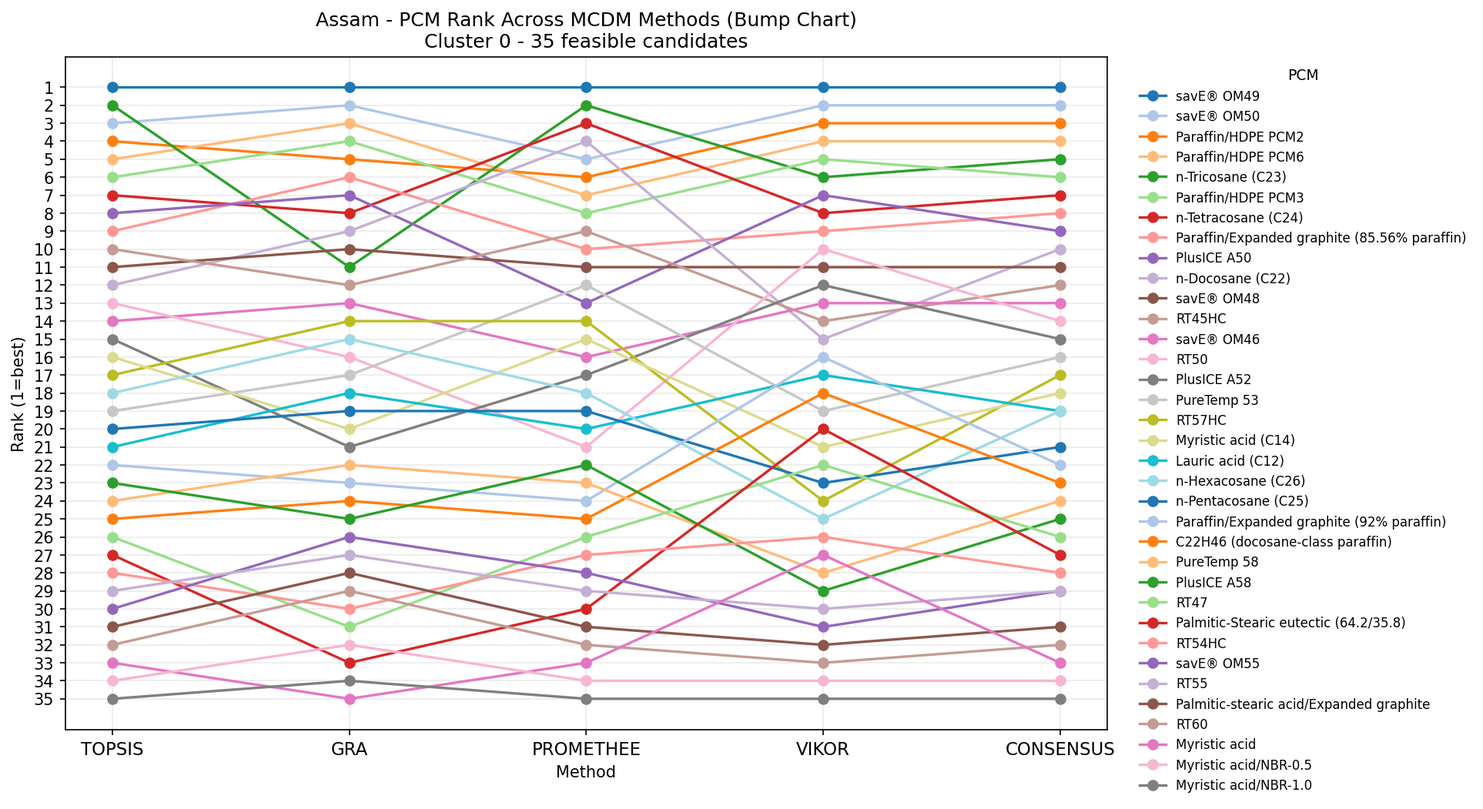
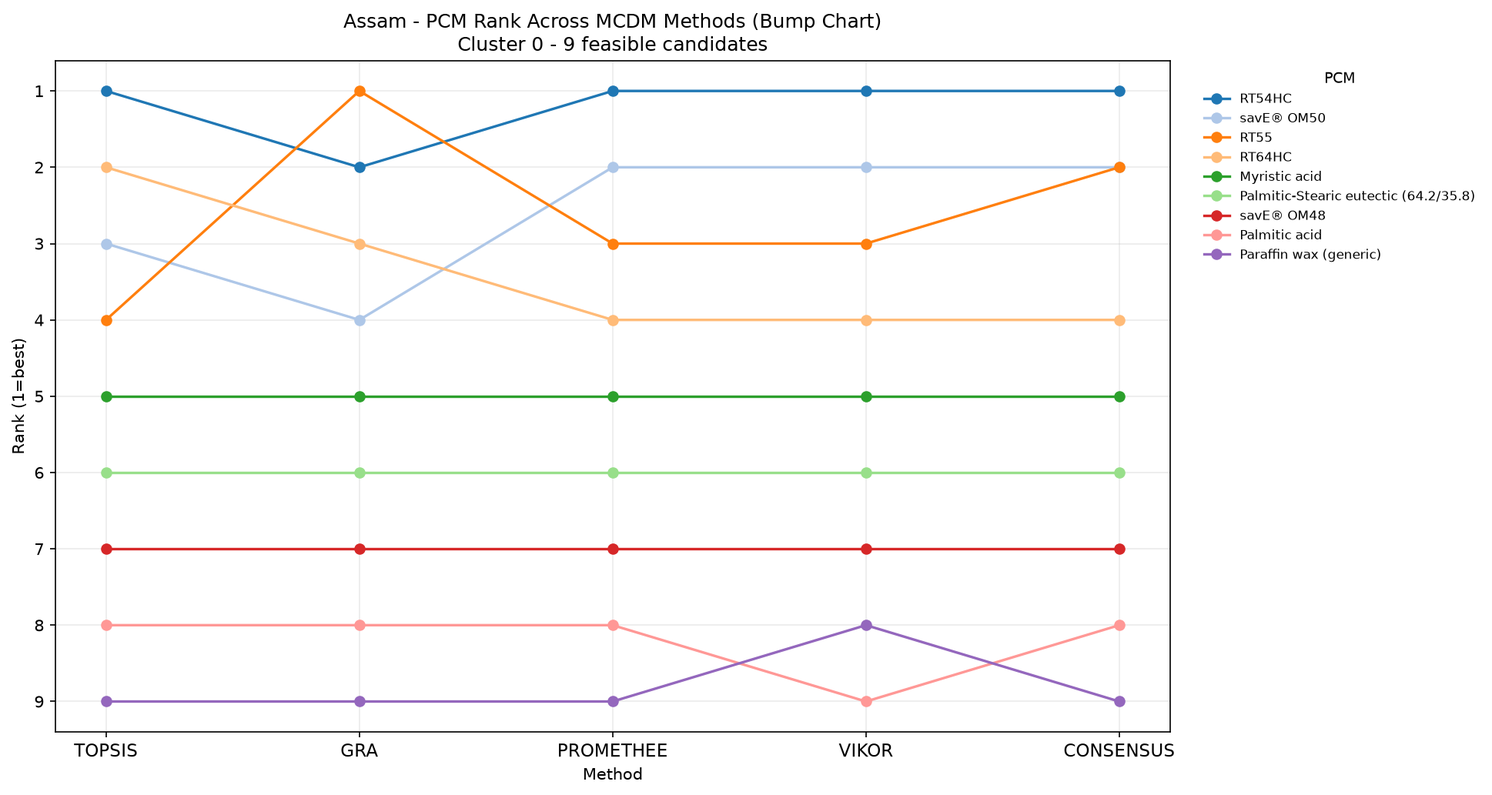
chore(plots): update Assam Cluster 0 MCDM bump chart from latest run

Changed region(s): [[0.0, 0.0, 0.9969, 0.9913]]

diff --git a/public/plots/assam/07_bump_chart_ranks_cluster_0.html b/public/plots/assam/07_bump_chart_ranks_cluster_0.html
@@ -6,6 +6,6 @@
 </head>
 <body>
     <div style="height:550px; width:100%;">                        <script>window.PlotlyConfig = {MathJaxConfig: 'local'};</script>
-        <script charset="utf-8" src="https://cdn.plot.ly/plotly-4.1.1.min.js" integrity="sha256-O24V1F27f8pb0glCkelh3cVHLNiHAJ5gCaVtq2aNch8=" crossorigin="anonymous"></script>                <div id="3c9d2331-f785-4d30-8041-53f6bf777013" class="plotly-graph-div" style="height:100%; width:100%;"></div>            <script>                window.PLOTLYENV=window.PLOTLYENV || {};                                if (document.getElementById("3c9d2331-f785-4d30-8041-53f6bf777013")) {                    Plotly.newPlot(                        "3c9d2331-f785-4d30-8041-53f6bf777013",                        [{"hovertemplate":"Name=savE® OM49\u003cbr\u003eMethod=%{x}\u003cbr\u003eRank=%{y}\u003cextra\u003e\u003c\u002fextra\u003e","legendgroup":"savE® OM49","line":{"color":"#FD3216","dash":"solid"},"marker":{"symbol":"circle"},"mode":"lines+markers","name":"savE® OM49","orientation":"v","showlegend":true,"x":["TOPSIS","GRA","PROMETHEE","VIKOR","CONSENSUS"],"xaxis":"x","y":{"dtype":"i1","bdata":"AQEBAQE="},"yaxis":"y","type":"scatter"},{"hovertemplate":"Name=savE® OM50\u003cbr\u003eMethod=%{x}\u003cbr\u003eRank=%{y}\u003cextra\u003e\u003c\u002fextra\u003e","legendgroup":"savE® OM50","line":{"color":"#00FE35","dash":"solid"},"marker":{"symbol":"circle"},"mode":"lines+markers","name":"savE® OM50","orientation":"v","showlegend":true,"x":["TOPSIS","GRA","PROMETHEE","VIKOR","CONSENSUS"],"xaxis":"x","y":{"dtype":"i1","bdata":"AwIFAgI="},"yaxis":"y","type":"scatter"},{"hovertemplate":"Name=Paraffin\u002fHDPE PCM2\u003cbr\u003eMethod=%{x}\u003cbr\u003eRank=%{y}\u003cextra\u003e\u003c\u002fextra\u003e","legendgroup":"Paraffin\u002fHDPE PCM2","line":{"color":"#6A76FC","dash":"solid"},"marker":{"symbol":"circle"},"mode":"lines+markers","name":"Paraffin\u002fHDPE PCM2","orientation":"v","showlegend":true,"x":["TOPSIS","GRA","PROMETHEE","VIKOR","CONSENSUS"],"xaxis":"x","y":{"dtype":"i1","bdata":"BAUGAwM="},"yaxis":"y","type":"scatter"},{"hovertemplate":"Name=Paraffin\u002fHDPE PCM6\u003cbr\u003eMethod=%{x}\u003cbr\u003eRank=%{y}\u003cextra\u003e\u003c\u002fextra\u003e","legendgroup":"Paraffin\u002fHDPE PCM6","line":{"color":"#FED4C4","dash":"solid"},"marker":{"symbol":"circle"},"mode":"lines+markers","name":"Paraffin\u002fHDPE PCM6","orientation":"v","showlegend":true,"x":["TOPSIS","GRA","PROMETHEE","VIKOR","CONSENSUS"],"xaxis":"x","y":{"dtype":"i1","bdata":"BQMHBAQ="},"yaxis":"y","type":"scatter"},{"hovertemplate":"Name=n-Tricosane (C23)\u003cbr\u003eMethod=%{x}\u003cbr\u003eRank=%{y}\u003cextra\u003e\u003c\u002fextra\u003e","legendgroup":"n-Tricosane (C23)","line":{"color":"#FE00CE","dash":"solid"},"marker":{"symbol":"circle"},"mode":"lines+markers","name":"n-Tricosane (C23)","orientation":"v","showlegend":true,"x":["TOPSIS","GRA","PROMETHEE","VIKOR","CONSENSUS"],"xaxis":"x","y":{"dtype":"i1","bdata":"AgsCBgU="},"yaxis":"y","type":"scatter"},{"hovertemplate":"Name=Paraffin\u002fHDPE PCM3\u003cbr\u003eMethod=%{x}\u003cbr\u003eRank=%{y}\u003cextra\u003e\u003c\u002fextra\u003e","legendgroup":"Paraffin\u002fHDPE PCM3","line":{"color":"#0DF9FF","dash":"solid"},"marker":{"symbol":"circle"},"mode":"lines+markers","name":"Paraffin\u002fHDPE PCM3","orientation":"v","showlegend":true,"x":["TOPSIS","GRA","PROMETHEE","VIKOR","CONSENSUS"],"xaxis":"x","y":{"dtype":"i1","bdata":"BgQIBQY="},"yaxis":"y","type":"scatter"},{"hovertemplate":"Name=n-Tetracosane (C24)\u003cbr\u003eMethod=%{x}\u003cbr\u003eRank=%{y}\u003cextra\u003e\u003c\u002fextra\u003e","legendgroup":"n-Tetracosane (C24)","line":{"color":"#F6F926","dash":"solid"},"marker":{"symbol":"circle"},"mode":"lines+markers","name":"n-Tetracosane (C24)","orientation":"v","showlegend":true,"x":["TOPSIS","GRA","PROMETHEE","VIKOR","CONSENSUS"],"xaxis":"x","y":{"dtype":"i1","bdata":"BwgDCAc="},"yaxis":"y","type":"scatter"},{"hovertemplate":"Name=Paraffin\u002fExpanded graphite (85.56% paraffin)\u003cbr\u003eMethod=%{x}\u003cbr\u003eRank=%{y}\u003cextra\u003e\u003c\u002fextra\u003e","legendgroup":"Paraffin\u002fExpanded graphite (85.56% paraffin)","line":{"color":"#FF9616","dash":"solid"},"marker":{"symbol":"circle"},"mode":"lines+markers","name":"Paraffin\u002fExpanded graphite (85.56% paraffin)","orientation":"v","showlegend":true,"x":["TOPSIS","GRA","PROMETHEE","VIKOR","CONSENSUS"],"xaxis":"x","y":{"dtype":"i1","bdata":"CQYKCQg="},"yaxis":"y","type":"scatter"},{"hovertemplate":"Name=PlusICE A50\u003cbr\u003eMethod=%{x}\u003cbr\u003eRank=%{y}\u003cextra\u003e\u003c\u002fextra\u003e","legendgroup":"PlusICE A50","line":{"color":"#479B55","dash":"solid"},"marker":{"symbol":"circle"},"mode":"lines+markers","name":"PlusICE A50","orientation":"v","showlegend":true,"x":["TOPSIS","GRA","PROMETHEE","VIKOR","CONSENSUS"],"xaxis":"x","y":{"dtype":"i1","bdata":"CAcNBwk="},"yaxis":"y","type":"scatter"},{"hovertemplate":"Name=n-Docosane (C22)\u003cbr\u003eMethod=%{x}\u003cbr\u003eRank=%{y}\u003cextra\u003e\u003c\u002fextra\u003e","legendgroup":"n-Docosane (C22)","line":{"color":"#EEA6FB","dash":"solid"},"marker":{"symbol":"circle"},"mode":"lines+markers","name":"n-Docosane (C22)","orientation":"v","showlegend":true,"x":["TOPSIS","GRA","PROMETHEE","VIKOR","CONSENSUS"],"xaxis":"x","y":{"dtype":"i1","bdata":"DAkEDwo="},"yaxis":"y","type":"scatter"},{"hovertemplate":"Name=savE® OM48\u003cbr\u003eMethod=%{x}\u003cbr\u003eRank=%{y}\u003cextra\u003e\u003c\u002fextra\u003e","legendgroup":"savE® OM48","line":{"color":"#DC587D","dash":"solid"},"marker":{"symbol":"circle"},"mode":"lines+markers","name":"savE® OM48","orientation":"v","showlegend":true,"x":["TOPSIS","GRA","PROMETHEE","VIKOR","CONSENSUS"],"xaxis":"x","y":{"dtype":"i1","bdata":"CwoLCws="},"yaxis":"y","type":"scatter"},{"hovertemplate":"Name=RT45HC\u003cbr\u003eMethod=%{x}\u003cbr\u003eRank=%{y}\u003cextra\u003e\u003c\u002fextra\u003e","legendgroup":"RT45HC","line":{"color":"#D626FF","dash":"solid"},"marker":{"symbol":"circle"},"mode":"lines+markers","name":"RT45HC","orientation":"v","showlegend":true,"x":["TOPSIS","GRA","PROMETHEE","VIKOR","CONSENSUS"],"xaxis":"x","y":{"dtype":"i1","bdata":"CgwJDgw="},"yaxis":"y","type":"scatter"},{"hovertemplate":"Name=savE® OM46\u003cbr\u003eMethod=%{x}\u003cbr\u003eRank=%{y}\u003cextra\u003e\u003c\u002fextra\u003e","legendgroup":"savE® OM46","line":{"color":"#6E899C","dash":"solid"},"marker":{"symbol":"circle"},"mode":"lines+markers","name":"savE® OM46","orientation":"v","showlegend":true,"x":["TOPSIS","GRA","PROMETHEE","VIKOR","CONSENSUS"],"xaxis":"x","y":{"dtype":"i1","bdata":"Dg0QDQ0="},"yaxis":"y","type":"scatter"},{"hovertemplate":"Name=RT50\u003cbr\u003eMethod=%{x}\u003cbr\u003eRank=%{y}\u003cextra\u003e\u003c\u002fextra\u003e","legendgroup":"RT50","line":{"color":"#00B5F7","dash":"solid"},"marker":{"symbol":"circle"},"mode":"lines+markers","name":"RT50","orientation":"v","showlegend":true,"x":["TOPSIS","GRA","PROMETHEE","VIKOR","CONSENSUS"],"xaxis":"x","y":{"dtype":"i1","bdata":"DRAVCg4="},"yaxis":"y","type":"scatter"},{"hovertemplate":"Name=PlusICE A52\u003cbr\u003eMethod=%{x}\u003cbr\u003eRank=%{y}\u003cextra\u003e\u003c\u002fextra\u003e","legendgroup":"PlusICE A52","line":{"color":"#B68E00","dash":"solid"},"marker":{"symbol":"circle"},"mode":"lines+markers","name":"PlusICE A52","orientation":"v","showlegend":true,"x":["TOPSIS","GRA","PROMETHEE","VIKOR","CONSENSUS"],"xaxis":"x","y":{"dtype":"i1","bdata":"DxURDA8="},"yaxis":"y","type":"scatter"},{"hovertemplate":"Name=PureTemp 53\u003cbr\u003eMethod=%{x}\u003cbr\u003eRank=%{y}\u003cextra\u003e\u003c\u002fextra\u003e","legendgroup":"PureTemp 53","line":{"color":"#C9FBE5","dash":"solid"},"marker":{"symbol":"circle"},"mode":"lines+markers","name":"PureTemp 53","orientation":"v","showlegend":true,"x":["TOPSIS","GRA","PROMETHEE","VIKOR","CONSENSUS"],"xaxis":"x","y":{"dtype":"i1","bdata":"ExEMExA="},"yaxis":"y","type":"scatter"},{"hovertemplate":"Name=RT57HC\u003cbr\u003eMethod=%{x}\u003cbr\u003eRank=%{y}\u003cextra\u003e\u003c\u002fextra\u003e","legendgroup":"RT57HC","line":{"color":"#FF0092","dash":"solid"},"marker":{"symbol":"circle"},"mode":"lines+markers","name":"RT57HC","orientation":"v","showlegend":true,"x":["TOPSIS","GRA","PROMETHEE","VIKOR","CONSENSUS"],"xaxis":"x","y":{"dtype":"i1","bdata":"EQ4OGBE="},"yaxis":"y","type":"scatter"},{"hovertemplate":"Name=Myristic acid (C14)\u003cbr\u003eMethod=%{x}\u003cbr\u003eRank=%{y}\u003cextra\u003e\u003c\u002fextra\u003e","legendgroup":"Myristic acid (C14)","line":{"color":"#22FFA7","dash":"solid"},"marker":{"symbol":"circle"},"mode":"lines+markers","name":"Myristic acid (C14)","orientation":"v","showlegend":true,"x":["TOPSIS","GRA","PROMETHEE","VIKOR","CONSENSUS"],"xaxis":"x","y":{"dtype":"i1","bdata":"EBQPFRI="},"yaxis":"y","type":"scatter"},{"hovertemplate":"Name=Lauric acid (C12)\u003cbr\u003eMethod=%{x}\u003cbr\u003eRank=%{y}\u003cextra\u003e\u003c\u002fextra\u003e","legendgroup":"Lauric acid (C12)","line":{"color":"#E3EE9E","dash":"solid"},"marker":{"symbol":"circle"},"mode":"lines+markers","name":"Lauric acid (C12)","orientation":"v","showlegend":true,"x":["TOPSIS","GRA","PROMETHEE","VIKOR","CONSENSUS"],"xaxis":"x","y":{"dtype":"i1","bdata":"FRIUERM="},"yaxis":"y","type":"scatter"},{"hovertemplate":"Name=n-Hexacosane (C26)\u003cbr\u003eMethod=%{x}\u003cbr\u003eRank=%{y}\u003cextra\u003e\u003c\u002fextra\u003e","legendgroup":"n-Hexacosane (C26)","line":{"color":"#86CE00","dash":"solid"},"marker":{"symbol":"circle"},"mode":"lines+markers","name":"n-Hexacosane (C26)","orientation":"v","showlegend":true,"x":["TOPSIS","GRA","PROMETHEE","VIKOR","CONSENSUS"],"xaxis":"x","y":{"dtype":"i1","bdata":"Eg8SGRM="},"yaxis":"y","type":"scatter"},{"hovertemplate":"Name=n-Pentacosane (C25)\u003cbr\u003eMethod=%{x}\u003cbr\u003eRank=%{y}\u003cextra\u003e\u003c\u002fextra\u003e","legendgroup":"n-Pentacosane (C25)","line":{"color":"#BC7196","dash":"solid"},"marker":{"symbol":"circle"},"mode":"lines+markers","name":"n-Pentacosane (C25)","orientation":"v","showlegend":true,"x":["TOPSIS","GRA","PROMETHEE","VIKOR","CONSENSUS"],"xaxis":"x","y":{"dtype":"i1","bdata":"FBMTFxU="},"yaxis":"y","type":"scatter"},{"hovertemplate":"Name=Paraffin\u002fExpanded graphite (92% paraffin)\u003cbr\u003eMethod=%{x}\u003cbr\u003eRank=%{y}\u003cextra\u003e\u003c\u002fextra\u003e","legendgroup":"Paraffin\u002fExpanded graphite (92% paraffin)","line":{"color":"#7E7DCD","dash":"solid"},"marker":{"symbol":"circle"},"mode":"lines+markers","name":"Paraffin\u002fExpanded graphite (92% paraffin)","orientation":"v","showlegend":true,"x":["TOPSIS","GRA","PROMETHEE","VIKOR","CONSENSUS"],"xaxis":"x","y":{"dtype":"i1","bdata":"FhcYEBY="},"yaxis":"y","type":"scatter"},{"hovertemplate":"Name=C22H46 (docosane-class paraffin)\u003cbr\u003eMethod=%{x}\u003cbr\u003eRank=%{y}\u003cextra\u003e\u003c\u002fextra\u003e","legendgroup":"C22H46 (docosane-class paraffin)","line":{"color":"#FC6955","dash":"solid"},"marker":{"symbol":"circle"},"mode":"lines+markers","name":"C22H46 (docosane-class paraffin)","orientation":"v","showlegend":true,"x":["TOPSIS","GRA","PROMETHEE","VIKOR","CONSENSUS"],"xaxis":"x","y":{"dtype":"i1","bdata":"GRgZEhc="},"yaxis":"y","type":"scatter"},{"hovertemplate":"Name=PureTemp 58\u003cbr\u003eMethod=%{x}\u003cbr\u003eRank=%{y}\u003cextra\u003e\u003c\u002fextra\u003e","legendgroup":"PureTemp 58","line":{"color":"#E48F72","dash":"solid"},"marker":{"symbol":"circle"},"mode":"lines+markers","name":"PureTemp 58","orientation":"v","showlegend":true,"x":["TOPSIS","GRA","PROMETHEE","VIKOR","CONSENSUS"],"xaxis":"x","y":{"dtype":"i1","bdata":"GBYXHBg="},"yaxis":"y","type":"scatter"},{"hovertemplate":"Name=PlusICE A58\u003cbr\u003eMethod=%{x}\u003cbr\u003eRank=%{y}\u003cextra\u003e\u003c\u002fextra\u003e","legendgroup":"PlusICE A58","line":{"color":"#FD3216","dash":"solid"},"marker":{"symbol":"circle"},"mode":"lines+markers","name":"PlusICE A58","orientation":"v","showlegend":true,"x":["TOPSIS","GRA","PROMETHEE","VIKOR","CONSENSUS"],"xaxis":"x","y":{"dtype":"i1","bdata":"FxkWHRk="},"yaxis":"y","type":"scatter"},{"hovertemplate":"Name=RT47\u003cbr\u003eMethod=%{x}\u003cbr\u003eRank=%{y}\u003cextra\u003e\u003c\u002fextra\u003e","legendgroup":"RT47","line":{"color":"#00FE35","dash":"solid"},"marker":{"symbol":"circle"},"mode":"lines+markers","name":"RT47","orientation":"v","showlegend":true,"x":["TOPSIS","GRA","PROMETHEE","VIKOR","CONSENSUS"],"xaxis":"x","y":{"dtype":"i1","bdata":"Gh8aFho="},"yaxis":"y","type":"scatter"},{"hovertemplate":"Name=Palmitic-Stearic eutectic (64.2\u002f35.8)\u003cbr\u003eMethod=%{x}\u003cbr\u003eRank=%{y}\u003cextra\u003e\u003c\u002fextra\u003e","legendgroup":"Palmitic-Stearic eutectic (64.2\u002f35.8)","line":{"color":"#6A76FC","dash":"solid"},"marker":{"symbol":"circle"},"mode":"lines+markers","name":"Palmitic-Stearic eutectic (64.2\u002f35.8)","orientation":"v","showlegend":true,"x":["TOPSIS","GRA","PROMETHEE","VIKOR","CONSENSUS"],"xaxis":"x","y":{"dtype":"i1","bdata":"GyEeFBs="},"yaxis":"y","type":"scatter"},{"hovertemplate":"Name=RT54HC\u003cbr\u003eMethod=%{x}\u003cbr\u003eRank=%{y}\u003cextra\u003e\u003c\u002fextra\u003e","legendgroup":"RT54HC","line":{"color":"#FED4C4","dash":"solid"},"marker":{"symbol":"circle"},"mode":"lines+markers","name":"RT54HC","orientation":"v","showlegend":true,"x":["TOPSIS","GRA","PROMETHEE","VIKOR","CONSENSUS"],"xaxis":"x","y":{"dtype":"i1","bdata":"HB4bGhw="},"yaxis":"y","type":"scatter"},{"hovertemplate":"Name=savE® OM55\u003cbr\u003eMethod=%{x}\u003cbr\u003eRank=%{y}\u003cextra\u003e\u003c\u002fextra\u003e","legendgroup":"savE® OM55","line":{"color":"#FE00CE","dash":"solid"},"marker":{"symbol":"circle"},"mode":"lines+markers","name":"savE® OM55","orientation":"v","showlegend":true,"x":["TOPSIS","GRA","PROMETHEE","VIKOR","CONSENSUS"],"xaxis":"x","y":{"dtype":"i1","bdata":"HhocHx0="},"yaxis":"y","type":"scatter"},{"hovertemplate":"Name=RT55\u003cbr\u003eMethod=%{x}\u003cbr\u003eRank=%{y}\u003cextra\u003e\u003c\u002fextra\u003e","legendgroup":"RT55","line":{"color":"#0DF9FF","dash":"solid"},"marker":{"symbol":"circle"},"mode":"lines+markers","name":"RT55","orientation":"v","showlegend":true,"x":["TOPSIS","GRA","PROMETHEE","VIKOR","CONSENSUS"],"xaxis":"x","y":{"dtype":"i1","bdata":"HRsdHh0="},"yaxis":"y","type":"scatter"},{"hovertemplate":"Name=Palmitic-stearic acid\u002fExpanded graphite\u003cbr\u003eMethod=%{x}\u003cbr\u003eRank=%{y}\u003cextra\u003e\u003c\u002fextra\u003e","legendgroup":"Palmitic-stearic acid\u002fExpanded graphite","line":{"color":"#F6F926","dash":"solid"},"marker":{"symbol":"circle"},"mode":"lines+markers","name":"Palmitic-stearic acid\u002fExpanded graphite","orientation":"v","showlegend":true,"x":["TOPSIS","GRA","PROMETHEE","VIKOR","CONSENSUS"],"xaxis":"x","y":{"dtype":"i1","bdata":"HxwfIB8="},"yaxis":"y","type":"scatter"},{"hovertemplate":"Name=RT60\u003cbr\u003eMethod=%{x}\u003cbr\u003eRank=%{y}\u003cextra\u003e\u003c\u002fextra\u003e","legendgroup":"RT60","line":{"color":"#FF9616","dash":"solid"},"marker":{"symbol":"circle"},"mode":"lines+markers","name":"RT60","orientation":"v","showlegend":true,"x":["TOPSIS","GRA","PROMETHEE","VIKOR","CONSENSUS"],"xaxis":"x","y":{"dtype":"i1","bdata":"IB0gISA="},"yaxis":"y","type":"scatter"},{"hovertemplate":"Name=Myristic acid\u003cbr\u003eMethod=%{x}\u003cbr\u003eRank=%{y}\u003cextra\u003e\u003c\u002fextra\u003e","legendgroup":"Myristic acid","line":{"color":"#479B55","dash":"solid"},"marker":{"symbol":"circle"},"mode":"lines+markers","name":"Myristic acid","orientation":"v","showlegend":true,"x":["TOPSIS","GRA","PROMETHEE","VIKOR","CONSENSUS"],"xaxis":"x","y":{"dtype":"i1","bdata":"ISMhGyE="},"yaxis":"y","type":"scatter"},{"hovertemplate":"Name=Myristic acid\u002fNBR-0.5\u003cbr\u003eMethod=%{x}\u003cbr\u003eRank=%{y}\u003cextra\u003e\u003c\u002fextra\u003e","legendgroup":"Myristic acid\u002fNBR-0.5","line":{"color":"#EEA6FB","dash":"solid"},"marker":{"symbol":"circle"},"mode":"lines+markers","name":"Myristic acid\u002fNBR-0.5","orientation":"v","showlegend":true,"x":["TOPSIS","GRA","PROMETHEE","VIKOR","CONSENSUS"],"xaxis":"x","y":{"dtype":"i1","bdata":"IiAiIiI="},"yaxis":"y","type":"scatter"},{"hovertemplate":"Name=Myristic acid\u002fNBR-1.0\u003cbr\u003eMethod=%{x}\u003cbr\u003eRank=%{y}\u003cextra\u003e\u003c\u002fextra\u003e","legendgroup":"Myristic acid\u002fNBR-1.0","line":{"color":"#DC587D","dash":"solid"},"marker":{"symbol":"circle"},"mode":"lines+markers","name":"Myristic acid\u002fNBR-1.0","orientation":"v","showlegend":true,"x":["TOPSIS","GRA","PROMETHEE","VIKOR","CONSENSUS"],"xaxis":"x","y":{"dtype":"i1","bdata":"IyIjIyM="},"yaxis":"y","type":"scatter"}],                        {"template":{"data":{"barpolar":[{"marker":{"line":{"color":"white","width":0.5},"pattern":{"fillmode":"overlay","size":10,"solidity":0.2}},"type":"barpolar"}],"bar":[{"error_x":{"color":"#2a3f5f"},"error_y":{"color":"#2a3f5f"},"marker":{"line":{"color":"white","width":0.5},"pattern":{"fillmode":"overlay","size":10,"solidity":0.2}},"type":"bar"}],"carpet":[{"aaxis":{"endlinecolor":"#2a3f5f","gridcolor":"#C8D4E3","linecolor":"#C8D4E3","minorgridcolor":"#C8D4E3","startlinecolor":"#2a3f5f"},"baxis":{"endlinecolor":"#2a3f5f","gridcolor":"#C8D4E3","linecolor":"#C8D4E3","minorgridcolor":"#C8D4E3","startlinecolor":"#2a3f5f"},"type":"carpet"}],"choropleth":[{"colorbar":{"outlinewidth":0,"ticks":""},"type":"choropleth"}],"contourcarpet":[{"colorbar":{"outlinewidth":0,"ticks":""},"type":"contourcarpet"}],"contour":[{"colorbar":{"outlinewidth":0,"ticks":""},"colorscale":[[0.0,"#0d0887"],[0.1111111111111111,"#46039f"],[0.2222222222222222,"#7201a8"],[0.3333333333333333,"#9c179e"],[0.4444444444444444,"#bd3786"],[0.5555555555555556,"#d8576b"],[0.6666666666666666,"#ed7953"],[0.7777777777777778,"#fb9f3a"],[0.8888888888888888,"#fdca26"],[1.0,"#f0f921"]],"type":"contour"}],"heatmap":[{"colorbar":{"outlinewidth":0,"ticks":""},"colorscale":[[0.0,"#0d0887"],[0.1111111111111111,"#46039f"],[0.2222222222222222,"#7201a8"],[0.3333333333333333,"#9c179e"],[0.4444444444444444,"#bd3786"],[0.5555555555555556,"#d8576b"],[0.6666666666666666,"#ed7953"],[0.7777777777777778,"#fb9f3a"],[0.8888888888888888,"#fdca26"],[1.0,"#f0f921"]],"type":"heatmap"}],"histogram2dcontour":[{"colorbar":{"outlinewidth":0,"ticks":""},"colorscale":[[0.0,"#0d0887"],[0.1111111111111111,"#46039f"],[0.2222222222222222,"#7201a8"],[0.3333333333333333,"#9c179e"],[0.4444444444444444,"#bd3786"],[0.5555555555555556,"#d8576b"],[0.6666666666666666,"#ed7953"],[0.7777777777777778,"#fb9f3a"],[0.8888888888888888,"#fdca26"],[1.0,"#f0f921"]],"type":"histogram2dcontour"}],"histogram2d":[{"colorbar":{"outlinewidth":0,"ticks":""},"colorscale":[[0.0,"#0d0887"],[0.1111111111111111,"#46039f"],[0.2222222222222222,"#7201a8"],[0.3333333333333333,"#9c179e"],[0.4444444444444444,"#bd3786"],[0.5555555555555556,"#d8576b"],[0.6666666666666666,"#ed7953"],[0.7777777777777778,"#fb9f3a"],[0.8888888888888888,"#fdca26"],[1.0,"#f0f921"]],"type":"histogram2d"}],"histogram":[{"marker":{"pattern":{"fillmode":"overlay","size":10,"solidity":0.2}},"type":"histogram"}],"mesh3d":[{"colorbar":{"outlinewidth":0,"ticks":""},"type":"mesh3d"}],"parcoords":[{"line":{"colorbar":{"outlinewidth":0,"ticks":""}},"type":"parcoords"}],"pie":[{"automargin":true,"type":"pie"}],"scatter3d":[{"line":{"colorbar":{"outlinewidth":0,"ticks":""}},"marker":{"colorbar":{"outlinewidth":0,"ticks":""}},"type":"scatter3d"}],"scattercarpet":[{"marker":{"colorbar":{"outlinewidth":0,"ticks":""}},"type":"scattercarpet"}],"scattergeo":[{"marker":{"colorbar":{"outlinewidth":0,"ticks":""}},"type":"scattergeo"}],"scattergl":[{"marker":{"colorbar":{"outlinewidth":0,"ticks":""}},"type":"scattergl"}],"scattermap":[{"marker":{"colorbar":{"outlinewidth":0,"ticks":""}},"type":"scattermap"}],"scatterpolargl":[{"marker":{"colorbar":{"outlinewidth":0,"ticks":""}},"type":"scatterpolargl"}],"scatterpolar":[{"marker":{"colorbar":{"outlinewidth":0,"ticks":""}},"type":"scatterpolar"}],"scatter":[{"fillpattern":{"fillmode":"overlay","size":10,"solidity":0.2},"type":"scatter"}],"scatterternary":[{"marker":{"colorbar":{"outlinewidth":0,"ticks":""}},"type":"scatterternary"}],"surface":[{"colorbar":{"outlinewidth":0,"ticks":""},"colorscale":[[0.0,"#0d0887"],[0.1111111111111111,"#46039f"],[0.2222222222222222,"#7201a8"],[0.3333333333333333,"#9c179e"],[0.4444444444444444,"#bd3786"],[0.5555555555555556,"#d8576b"],[0.6666666666666666,"#ed7953"],[0.7777777777777778,"#fb9f3a"],[0.8888888888888888,"#fdca26"],[1.0,"#f0f921"]],"type":"surface"}],"table":[{"cells":{"fill":{"color":"#EBF0F8"},"line":{"color":"white"}},"header":{"fill":{"color":"#C8D4E3"},"line":{"color":"white"}},"type":"table"}]},"layout":{"annotationdefaults":{"arrowcolor":"#2a3f5f","arrowhead":0,"arrowwidth":1},"autotypenumbers":"strict","coloraxis":{"colorbar":{"outlinewidth":0,"ticks":""}},"colorscale":{"diverging":[[0,"#8e0152"],[0.1,"#c51b7d"],[0.2,"#de77ae"],[0.3,"#f1b6da"],[0.4,"#fde0ef"],[0.5,"#f7f7f7"],[0.6,"#e6f5d0"],[0.7,"#b8e186"],[0.8,"#7fbc41"],[0.9,"#4d9221"],[1,"#276419"]],"sequential":[[0.0,"#0d0887"],[0.1111111111111111,"#46039f"],[0.2222222222222222,"#7201a8"],[0.3333333333333333,"#9c179e"],[0.4444444444444444,"#bd3786"],[0.5555555555555556,"#d8576b"],[0.6666666666666666,"#ed7953"],[0.7777777777777778,"#fb9f3a"],[0.8888888888888888,"#fdca26"],[1.0,"#f0f921"]],"sequentialminus":[[0.0,"#0d0887"],[0.1111111111111111,"#46039f"],[0.2222222222222222,"#7201a8"],[0.3333333333333333,"#9c179e"],[0.4444444444444444,"#bd3786"],[0.5555555555555556,"#d8576b"],[0.6666666666666666,"#ed7953"],[0.7777777777777778,"#fb9f3a"],[0.8888888888888888,"#fdca26"],[1.0,"#f0f921"]]},"colorway":["#636efa","#EF553B","#00cc96","#ab63fa","#FFA15A","#19d3f3","#FF6692","#B6E880","#FF97FF","#FECB52"],"font":{"color":"#2a3f5f"},"geo":{"bgcolor":"white","lakecolor":"white","landcolor":"white","showlakes":true,"showland":true,"subunitcolor":"#C8D4E3"},"hoverlabel":{"align":"left"},"hovermode":"closest","paper_bgcolor":"white","plot_bgcolor":"white","polar":{"angularaxis":{"gridcolor":"#EBF0F8","linecolor":"#EBF0F8","ticks":""},"bgcolor":"white","radialaxis":{"gridcolor":"#EBF0F8","linecolor":"#EBF0F8","ticks":""}},"scene":{"xaxis":{"backgroundcolor":"white","gridcolor":"#DFE8F3","gridwidth":2,"linecolor":"#EBF0F8","showbackground":true,"ticks":"","zerolinecolor":"#EBF0F8"},"yaxis":{"backgroundcolor":"white","gridcolor":"#DFE8F3","gridwidth":2,"linecolor":"#EBF0F8","showbackground":true,"ticks":"","zerolinecolor":"#EBF0F8"},"zaxis":{"backgroundcolor":"white","gridcolor":"#DFE8F3","gridwidth":2,"linecolor":"#EBF0F8","showbackground":true,"ticks":"","zerolinecolor":"#EBF0F8"}},"shapedefaults":{"line":{"color":"#2a3f5f"}},"ternary":{"aaxis":{"gridcolor":"#DFE8F3","linecolor":"#A2B1C6","ticks":""},"baxis":{"gridcolor":"#DFE8F3","linecolor":"#A2B1C6","ticks":""},"bgcolor":"white","caxis":{"gridcolor":"#DFE8F3","linecolor":"#A2B1C6","ticks":""}},"title":{"x":0.05},"xaxis":{"automargin":true,"gridcolor":"#EBF0F8","linecolor":"#EBF0F8","ticks":"","title":{"standoff":15},"zerolinecolor":"#EBF0F8","zerolinewidth":2},"yaxis":{"automargin":true,"gridcolor":"#EBF0F8","linecolor":"#EBF0F8","ticks":"","title":{"standoff":15},"zerolinecolor":"#EBF0F8","zerolinewidth":2}}},"xaxis":{"anchor":"y","domain":[0.0,1.0],"title":{"text":"Method"}},"yaxis":{"anchor":"x","domain":[0.0,1.0],"title":{"text":"Rank (1=best)"},"autorange":"reversed"},"legend":{"title":{"text":"PCM"},"tracegroupgap":0},"title":{"text":"Assam PCM - Rank Across MCDM Methods, Cluster 0 (35 candidates)"},"height":550},                        {"responsive": true}                    )                };            </script>        </div>
+        <script charset="utf-8" src="https://cdn.plot.ly/plotly-4.0.0.min.js" integrity="sha256-FEYfO0yRyLtZCpnW0Dw/0DHKQO7Afrq3ml4+rBB818o=" crossorigin="anonymous"></script>                <div id="d1de4553-237e-438a-a37c-6a248cd82c37" class="plotly-graph-div" style="height:100%; width:100%;"></div>            <script>                window.PLOTLYENV=window.PLOTLYENV || {};                                if (document.getElementById("d1de4553-237e-438a-a37c-6a248cd82c37")) {                    Plotly.newPlot(                        "d1de4553-237e-438a-a37c-6a248cd82c37",                        [{"hovertemplate":"Name=RT54HC\u003cbr\u003eMethod=%{x}\u003cbr\u003eRank=%{y}\u003cextra\u003e\u003c\u002fextra\u003e","legendgroup":"RT54HC","line":{"color":"#FD3216","dash":"solid"},"marker":{"symbol":"circle"},"mode":"lines+markers","name":"RT54HC","orientation":"v","showlegend":true,"x":["TOPSIS","GRA","PROMETHEE","VIKOR","CONSENSUS"],"xaxis":"x","y":{"dtype":"i1","bdata":"AQIBAQE="},"yaxis":"y","type":"scatter"},{"hovertemplate":"Name=savE® OM50\u003cbr\u003eMethod=%{x}\u003cbr\u003eRank=%{y}\u003cextra\u003e\u003c\u002fextra\u003e","legendgroup":"savE® OM50","line":{"color":"#00FE35","dash":"solid"},"marker":{"symbol":"circle"},"mode":"lines+markers","name":"savE® OM50","orientation":"v","showlegend":true,"x":["TOPSIS","GRA","PROMETHEE","VIKOR","CONSENSUS"],"xaxis":"x","y":{"dtype":"i1","bdata":"AwQCAgI="},"yaxis":"y","type":"scatter"},{"hovertemplate":"Name=RT55\u003cbr\u003eMethod=%{x}\u003cbr\u003eRank=%{y}\u003cextra\u003e\u003c\u002fextra\u003e","legendgroup":"RT55","line":{"color":"#6A76FC","dash":"solid"},"marker":{"symbol":"circle"},"mode":"lines+markers","name":"RT55","orientation":"v","showlegend":true,"x":["TOPSIS","GRA","PROMETHEE","VIKOR","CONSENSUS"],"xaxis":"x","y":{"dtype":"i1","bdata":"BAEDAwI="},"yaxis":"y","type":"scatter"},{"hovertemplate":"Name=RT64HC\u003cbr\u003eMethod=%{x}\u003cbr\u003eRank=%{y}\u003cextra\u003e\u003c\u002fextra\u003e","legendgroup":"RT64HC","line":{"color":"#FED4C4","dash":"solid"},"marker":{"symbol":"circle"},"mode":"lines+markers","name":"RT64HC","orientation":"v","showlegend":true,"x":["TOPSIS","GRA","PROMETHEE","VIKOR","CONSENSUS"],"xaxis":"x","y":{"dtype":"i1","bdata":"AgMEBAQ="},"yaxis":"y","type":"scatter"},{"hovertemplate":"Name=Myristic acid\u003cbr\u003eMethod=%{x}\u003cbr\u003eRank=%{y}\u003cextra\u003e\u003c\u002fextra\u003e","legendgroup":"Myristic acid","line":{"color":"#FE00CE","dash":"solid"},"marker":{"symbol":"circle"},"mode":"lines+markers","name":"Myristic acid","orientation":"v","showlegend":true,"x":["TOPSIS","GRA","PROMETHEE","VIKOR","CONSENSUS"],"xaxis":"x","y":{"dtype":"i1","bdata":"BQUFBQU="},"yaxis":"y","type":"scatter"},{"hovertemplate":"Name=Palmitic-Stearic eutectic (64.2\u002f35.8)\u003cbr\u003eMethod=%{x}\u003cbr\u003eRank=%{y}\u003cextra\u003e\u003c\u002fextra\u003e","legendgroup":"Palmitic-Stearic eutectic (64.2\u002f35.8)","line":{"color":"#0DF9FF","dash":"solid"},"marker":{"symbol":"circle"},"mode":"lines+markers","name":"Palmitic-Stearic eutectic (64.2\u002f35.8)","orientation":"v","showlegend":true,"x":["TOPSIS","GRA","PROMETHEE","VIKOR","CONSENSUS"],"xaxis":"x","y":{"dtype":"i1","bdata":"BgYGBgY="},"yaxis":"y","type":"scatter"},{"hovertemplate":"Name=savE® OM48\u003cbr\u003eMethod=%{x}\u003cbr\u003eRank=%{y}\u003cextra\u003e\u003c\u002fextra\u003e","legendgroup":"savE® OM48","line":{"color":"#F6F926","dash":"solid"},"marker":{"symbol":"circle"},"mode":"lines+markers","name":"savE® OM48","orientation":"v","showlegend":true,"x":["TOPSIS","GRA","PROMETHEE","VIKOR","CONSENSUS"],"xaxis":"x","y":{"dtype":"i1","bdata":"BwcHBwc="},"yaxis":"y","type":"scatter"},{"hovertemplate":"Name=Palmitic acid\u003cbr\u003eMethod=%{x}\u003cbr\u003eRank=%{y}\u003cextra\u003e\u003c\u002fextra\u003e","legendgroup":"Palmitic acid","line":{"color":"#FF9616","dash":"solid"},"marker":{"symbol":"circle"},"mode":"lines+markers","name":"Palmitic acid","orientation":"v","showlegend":true,"x":["TOPSIS","GRA","PROMETHEE","VIKOR","CONSENSUS"],"xaxis":"x","y":{"dtype":"i1","bdata":"CAgICQg="},"yaxis":"y","type":"scatter"},{"hovertemplate":"Name=Paraffin wax (generic)\u003cbr\u003eMethod=%{x}\u003cbr\u003eRank=%{y}\u003cextra\u003e\u003c\u002fextra\u003e","legendgroup":"Paraffin wax (generic)","line":{"color":"#479B55","dash":"solid"},"marker":{"symbol":"circle"},"mode":"lines+markers","name":"Paraffin wax (generic)","orientation":"v","showlegend":true,"x":["TOPSIS","GRA","PROMETHEE","VIKOR","CONSENSUS"],"xaxis":"x","y":{"dtype":"i1","bdata":"CQkJCAk="},"yaxis":"y","type":"scatter"}],                        {"template":{"data":{"barpolar":[{"marker":{"line":{"color":"white","width":0.5},"pattern":{"fillmode":"overlay","size":10,"solidity":0.2}},"type":"barpolar"}],"bar":[{"error_x":{"color":"#2a3f5f"},"error_y":{"color":"#2a3f5f"},"marker":{"line":{"color":"white","width":0.5},"pattern":{"fillmode":"overlay","size":10,"solidity":0.2}},"type":"bar"}],"carpet":[{"aaxis":{"endlinecolor":"#2a3f5f","gridcolor":"#C8D4E3","linecolor":"#C8D4E3","minorgridcolor":"#C8D4E3","startlinecolor":"#2a3f5f"},"baxis":{"endlinecolor":"#2a3f5f","gridcolor":"#C8D4E3","linecolor":"#C8D4E3","minorgridcolor":"#C8D4E3","startlinecolor":"#2a3f5f"},"type":"carpet"}],"choropleth":[{"colorbar":{"outlinewidth":0,"ticks":""},"type":"choropleth"}],"contourcarpet":[{"colorbar":{"outlinewidth":0,"ticks":""},"type":"contourcarpet"}],"contour":[{"colorbar":{"outlinewidth":0,"ticks":""},"colorscale":[[0.0,"#0d0887"],[0.1111111111111111,"#46039f"],[0.2222222222222222,"#7201a8"],[0.3333333333333333,"#9c179e"],[0.4444444444444444,"#bd3786"],[0.5555555555555556,"#d8576b"],[0.6666666666666666,"#ed7953"],[0.7777777777777778,"#fb9f3a"],[0.8888888888888888,"#fdca26"],[1.0,"#f0f921"]],"type":"contour"}],"heatmap":[{"colorbar":{"outlinewidth":0,"ticks":""},"colorscale":[[0.0,"#0d0887"],[0.1111111111111111,"#46039f"],[0.2222222222222222,"#7201a8"],[0.3333333333333333,"#9c179e"],[0.4444444444444444,"#bd3786"],[0.5555555555555556,"#d8576b"],[0.6666666666666666,"#ed7953"],[0.7777777777777778,"#fb9f3a"],[0.8888888888888888,"#fdca26"],[1.0,"#f0f921"]],"type":"heatmap"}],"histogram2dcontour":[{"colorbar":{"outlinewidth":0,"ticks":""},"colorscale":[[0.0,"#0d0887"],[0.1111111111111111,"#46039f"],[0.2222222222222222,"#7201a8"],[0.3333333333333333,"#9c179e"],[0.4444444444444444,"#bd3786"],[0.5555555555555556,"#d8576b"],[0.6666666666666666,"#ed7953"],[0.7777777777777778,"#fb9f3a"],[0.8888888888888888,"#fdca26"],[1.0,"#f0f921"]],"type":"histogram2dcontour"}],"histogram2d":[{"colorbar":{"outlinewidth":0,"ticks":""},"colorscale":[[0.0,"#0d0887"],[0.1111111111111111,"#46039f"],[0.2222222222222222,"#7201a8"],[0.3333333333333333,"#9c179e"],[0.4444444444444444,"#bd3786"],[0.5555555555555556,"#d8576b"],[0.6666666666666666,"#ed7953"],[0.7777777777777778,"#fb9f3a"],[0.8888888888888888,"#fdca26"],[1.0,"#f0f921"]],"type":"histogram2d"}],"histogram":[{"marker":{"pattern":{"fillmode":"overlay","size":10,"solidity":0.2}},"type":"histogram"}],"mesh3d":[{"colorbar":{"outlinewidth":0,"ticks":""},"type":"mesh3d"}],"parcoords":[{"line":{"colorbar":{"outlinewidth":0,"ticks":""}},"type":"parcoords"}],"pie":[{"automargin":true,"type":"pie"}],"scatter3d":[{"line":{"colorbar":{"outlinewidth":0,"ticks":""}},"marker":{"colorbar":{"outlinewidth":0,"ticks":""}},"type":"scatter3d"}],"scattercarpet":[{"marker":{"colorbar":{"outlinewidth":0,"ticks":""}},"type":"scattercarpet"}],"scattergeo":[{"marker":{"colorbar":{"outlinewidth":0,"ticks":""}},"type":"scattergeo"}],"scattergl":[{"marker":{"colorbar":{"outlinewidth":0,"ticks":""}},"type":"scattergl"}],"scattermap":[{"marker":{"colorbar":{"outlinewidth":0,"ticks":""}},"type":"scattermap"}],"scatterpolargl":[{"marker":{"colorbar":{"outlinewidth":0,"ticks":""}},"type":"scatterpolargl"}],"scatterpolar":[{"marker":{"colorbar":{"outlinewidth":0,"ticks":""}},"type":"scatterpolar"}],"scatter":[{"fillpattern":{"fillmode":"overlay","size":10,"solidity":0.2},"type":"scatter"}],"scatterternary":[{"marker":{"colorbar":{"outlinewidth":0,"ticks":""}},"type":"scatterternary"}],"surface":[{"colorbar":{"outlinewidth":0,"ticks":""},"colorscale":[[0.0,"#0d0887"],[0.1111111111111111,"#46039f"],[0.2222222222222222,"#7201a8"],[0.3333333333333333,"#9c179e"],[0.4444444444444444,"#bd3786"],[0.5555555555555556,"#d8576b"],[0.6666666666666666,"#ed7953"],[0.7777777777777778,"#fb9f3a"],[0.8888888888888888,"#fdca26"],[1.0,"#f0f921"]],"type":"surface"}],"table":[{"cells":{"fill":{"color":"#EBF0F8"},"line":{"color":"white"}},"header":{"fill":{"color":"#C8D4E3"},"line":{"color":"white"}},"type":"table"}]},"layout":{"annotationdefaults":{"arrowcolor":"#2a3f5f","arrowhead":0,"arrowwidth":1},"autotypenumbers":"strict","coloraxis":{"colorbar":{"outlinewidth":0,"ticks":""}},"colorscale":{"diverging":[[0,"#8e0152"],[0.1,"#c51b7d"],[0.2,"#de77ae"],[0.3,"#f1b6da"],[0.4,"#fde0ef"],[0.5,"#f7f7f7"],[0.6,"#e6f5d0"],[0.7,"#b8e186"],[0.8,"#7fbc41"],[0.9,"#4d9221"],[1,"#276419"]],"sequential":[[0.0,"#0d0887"],[0.1111111111111111,"#46039f"],[0.2222222222222222,"#7201a8"],[0.3333333333333333,"#9c179e"],[0.4444444444444444,"#bd3786"],[0.5555555555555556,"#d8576b"],[0.6666666666666666,"#ed7953"],[0.7777777777777778,"#fb9f3a"],[0.8888888888888888,"#fdca26"],[1.0,"#f0f921"]],"sequentialminus":[[0.0,"#0d0887"],[0.1111111111111111,"#46039f"],[0.2222222222222222,"#7201a8"],[0.3333333333333333,"#9c179e"],[0.4444444444444444,"#bd3786"],[0.5555555555555556,"#d8576b"],[0.6666666666666666,"#ed7953"],[0.7777777777777778,"#fb9f3a"],[0.8888888888888888,"#fdca26"],[1.0,"#f0f921"]]},"colorway":["#636efa","#EF553B","#00cc96","#ab63fa","#FFA15A","#19d3f3","#FF6692","#B6E880","#FF97FF","#FECB52"],"font":{"color":"#2a3f5f"},"geo":{"bgcolor":"white","lakecolor":"white","landcolor":"white","showlakes":true,"showland":true,"subunitcolor":"#C8D4E3"},"hoverlabel":{"align":"left"},"hovermode":"closest","paper_bgcolor":"white","plot_bgcolor":"white","polar":{"angularaxis":{"gridcolor":"#EBF0F8","linecolor":"#EBF0F8","ticks":""},"bgcolor":"white","radialaxis":{"gridcolor":"#EBF0F8","linecolor":"#EBF0F8","ticks":""}},"scene":{"xaxis":{"backgroundcolor":"white","gridcolor":"#DFE8F3","gridwidth":2,"linecolor":"#EBF0F8","showbackground":true,"ticks":"","zerolinecolor":"#EBF0F8"},"yaxis":{"backgroundcolor":"white","gridcolor":"#DFE8F3","gridwidth":2,"linecolor":"#EBF0F8","showbackground":true,"ticks":"","zerolinecolor":"#EBF0F8"},"zaxis":{"backgroundcolor":"white","gridcolor":"#DFE8F3","gridwidth":2,"linecolor":"#EBF0F8","showbackground":true,"ticks":"","zerolinecolor":"#EBF0F8"}},"shapedefaults":{"line":{"color":"#2a3f5f"}},"ternary":{"aaxis":{"gridcolor":"#DFE8F3","linecolor":"#A2B1C6","ticks":""},"baxis":{"gridcolor":"#DFE8F3","linecolor":"#A2B1C6","ticks":""},"bgcolor":"white","caxis":{"gridcolor":"#DFE8F3","linecolor":"#A2B1C6","ticks":""}},"title":{"x":0.05},"xaxis":{"automargin":true,"gridcolor":"#EBF0F8","linecolor":"#EBF0F8","ticks":"","title":{"standoff":15},"zerolinecolor":"#EBF0F8","zerolinewidth":2},"yaxis":{"automargin":true,"gridcolor":"#EBF0F8","linecolor":"#EBF0F8","ticks":"","title":{"standoff":15},"zerolinecolor":"#EBF0F8","zerolinewidth":2}}},"xaxis":{"anchor":"y","domain":[0.0,1.0],"title":{"text":"Method"}},"yaxis":{"anchor":"x","domain":[0.0,1.0],"title":{"text":"Rank (1=best)"},"autorange":"reversed"},"legend":{"title":{"text":"PCM"},"tracegroupgap":0},"title":{"text":"Assam PCM - Rank Across MCDM Methods, Cluster 0 (9 candidates)"},"height":550},                        {"responsive": true}                    )                };            </script>        </div>
 </body>
 </html>
